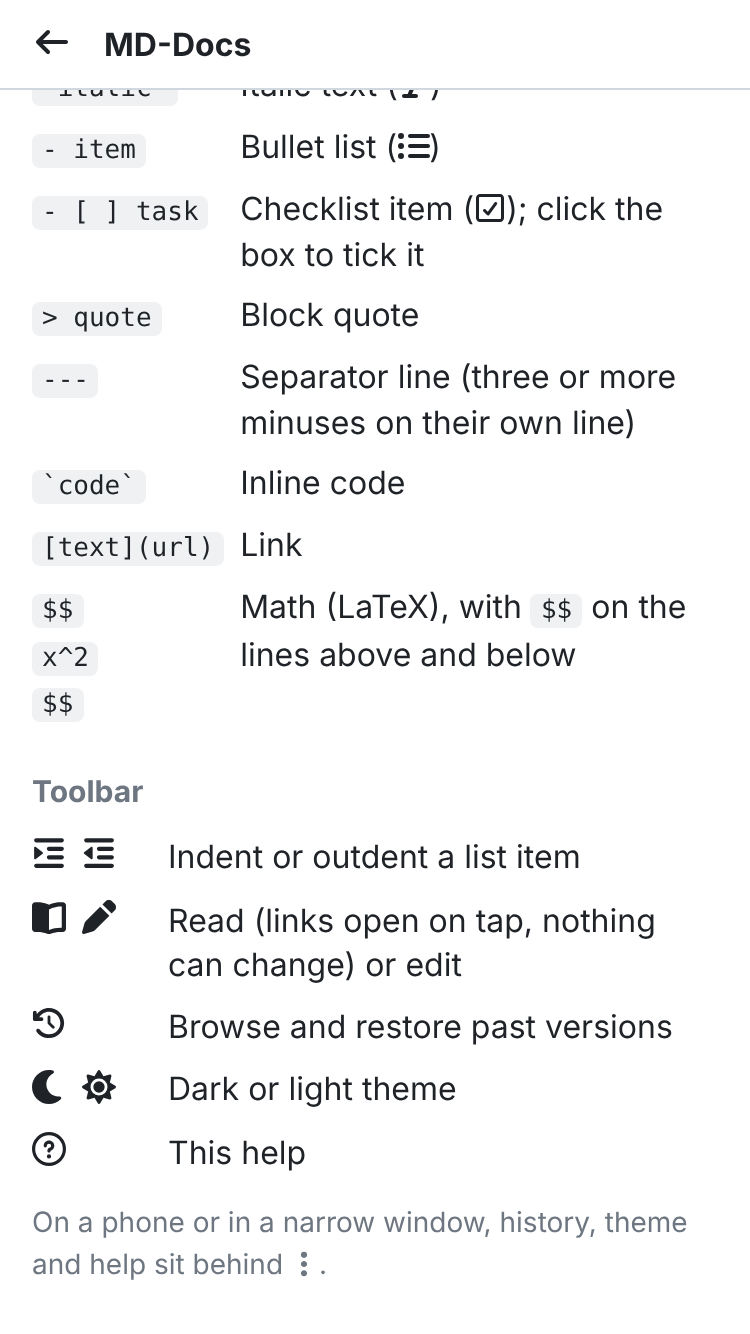
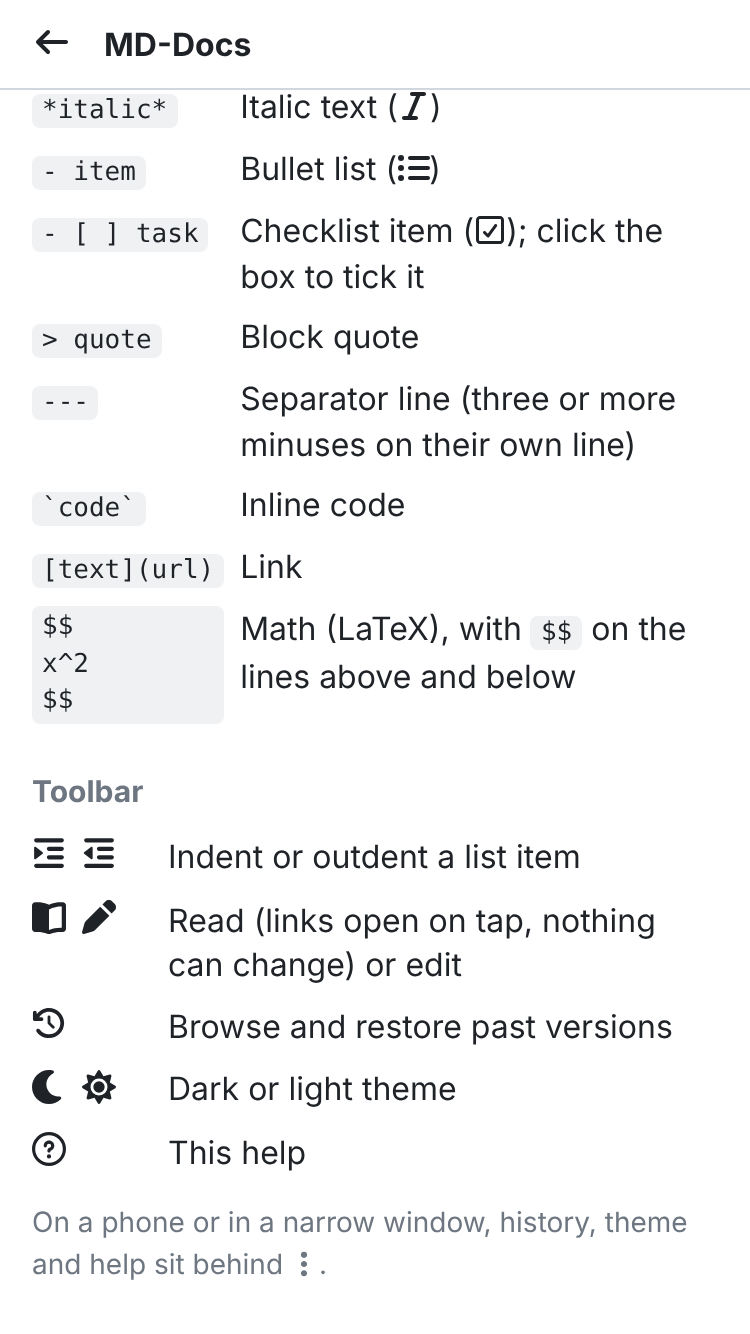
Show the help's math example as one code block
The `$$` / `x^2` / `$$` example was three inline-code chips stacked with
<br>, which read as three unrelated snippets. It is now one <pre> block
with a single background, the way the block looks when typed.

diff --git a/css/main.css b/css/main.css
@@ -220,6 +220,15 @@ html, body {
 .help-card td { padding: 4px 8px 4px 0; vertical-align: top; line-height: 1.4; }
 .help-card td:first-child { white-space: nowrap; }
 .help-card svg { width: 1em; height: 1em; vertical-align: -0.125em; }
+/* A multi-line example (the math block) is one block, not a chip per line. */
+.help-card pre {
+  margin: 0;
+  padding: 2px 5px;
+  background: var(--code-bg);
+  border-radius: 4px;
+  line-height: 1.4;
+}
+.help-card pre code { padding: 0; background: none; }
 /* Toolbar section: an icon column, each pair of icons a little apart. */
 .help-tools td:first-child { width: 4em; font-size: 17px; }
 .help-tools svg + svg { margin-left: 8px; }

diff --git a/src/ui/toolbar.ts b/src/ui/toolbar.ts
@@ -218,7 +218,7 @@ function buildHelp(): HTMLElement {
         <tr><td><code>---</code></td><td>Separator line (three or more minuses on their own line)</td></tr>
         <tr><td><code>\`code\`</code></td><td>Inline code</td></tr>
         <tr><td><code>[text](url)</code></td><td>Link</td></tr>
-        <tr><td><code>$$</code><br><code>x^2</code><br><code>$$</code></td><td>Math (LaTeX), with <code>$$</code> on the lines above and below</td></tr>
+        <tr><td><pre><code>$$&#10;x^2&#10;$$</code></pre></td><td>Math (LaTeX), with <code>$$</code> on the lines above and below</td></tr>
       </table>
       <h2>Toolbar</h2>
       <table class="help-tools">
